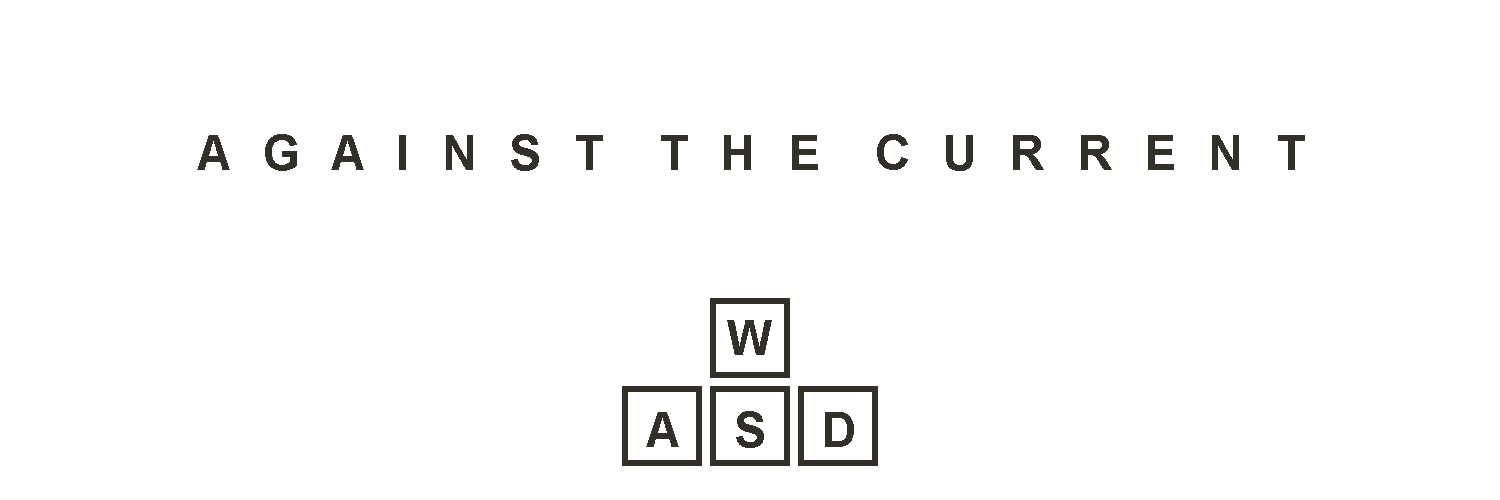
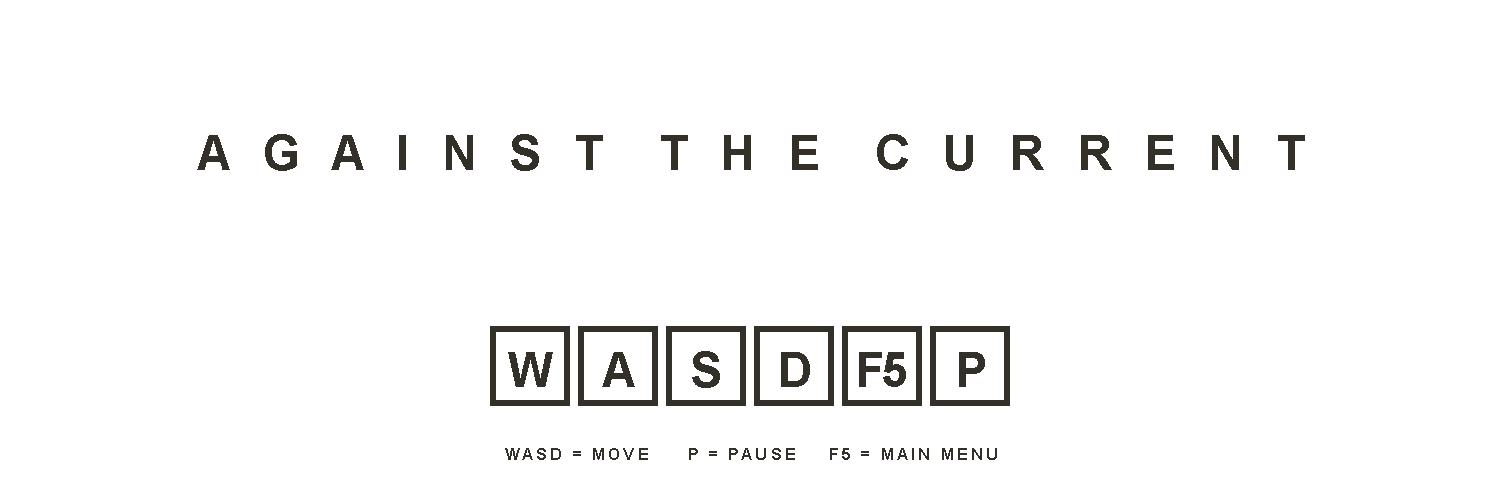
update

Changed region(s): [[0.3067, 0.57, 0.6747, 0.93]]

diff --git a/sketch.js b/sketch.js
@@ -13,7 +13,7 @@ let description = [
   }
 ];
 let gameState, startButton, gameReset, moveControls;
-let backgroundImage, gameScreenBackground, clouds_overlay;
+let backgroundImage, gameScreenBackground, clouds_overlay, pause;
 let gameScreen_x = 0, gameScreen_x2, scrollSpeed = 0.5, clouds_overlay_x = -1500;
 let playerSprite, playerX = 100, playerY = 250, playerSpeed = 1;//0.5 original speed
 let peopleSprite, peopleSprite2, peopleSprite3;
@@ -21,7 +21,7 @@ let peopleSprite2Gif;
 let peopleX = 0, peopleY = 0, peopleXX = 0, peopleYY = 0, people = [], peopleTwo = [];
 let hit = false;
 let counter = 0;
-let score = 0;
+let score = 0, score2 = 0;
 let sky_0, sky_0_speed = 0.1, sky_0_x = 0, sky_0_x2;
 let sky_1, sky_1_speed = 0.2, sky_1_x = 0, sky_1_x2;
 let sky_2, sky_2_speed = 0.3, sky_2_x = 0, sky_2_x2;
@@ -35,6 +35,7 @@ function preload() {//createImg is for gif
   //background
   backgroundImage = loadImage('images/gameArt_background.png');
   gameScreenBackground = loadImage('images/gameScreen_background.png');
+  pause = loadImage('images/pause.png');
   clouds_overlay = loadImage('images/clouds_overlay.png');
   sky_0 = loadImage('images/sky_0.png');
   sky_1 = loadImage('images/sky_1.png');
@@ -52,10 +53,10 @@ function preload() {//createImg is for gif
 //-------------------------------------------------------------------------
 function setup() {
   createCanvas(1500, 500); background(50); titleScreen();
-  for (let i = 0; i < 80; i++) {//80 = hard
+  for (let i = 0; i < 60; i++) {//80 = hard
     people.push(new peopleSpriteClass());
   }
-  for (let i = 0; i < 200; i++) {//200 = hard
+  for (let i = 0; i < 150; i++) {//200 = hard
     peopleTwo.push(new peopleSpriteClassTwo());
   }
   playerSprite.hide();
@@ -83,12 +84,12 @@ function titleScreen() {
   startButton = createButton('Press "Enter" to Play');
   startButton.size(200);
   startButton.style('width:800px');
-  startButton.position(width/4, height/2.2);
+  startButton.position(width/4, height*0.56);
   startButton.mousePressed(gameScreen);
-  gameReset = createButton('Press "F5" for Main Menu');
-  gameReset.size(200);
-  gameReset.style('width:800px');
-  gameReset.position(width/4, height*0.55);
+  // gameReset = createButton('Press "F5" for Main Menu');
+  // gameReset.size(200);
+  // gameReset.style('width:800px');
+  // gameReset.position(width/4, height*0.55);
   // moveControls = createButton('"WASD" to Move');
   // moveControls.size(200);
   // moveControls.position(width/2-80, height*0.99);
@@ -98,7 +99,8 @@ function titleScreen() {
 function gameScreen() {
   gameState = 1;
   //hide buttons
-  startButton.hide(); gameReset.hide();
+  startButton.hide();
+  // gameReset.hide();
   // moveControls.hide();
   //display image of player sprite
   fill(0, 0);
@@ -113,7 +115,7 @@ function gameScreen() {
   if (keyIsDown(80)) {//p, pauseScreen
     gameState = 2;
     startButton.show();
-    gameReset.show();
+    // gameReset.show();
   }
   //display image of people sprite
   for (let i = 0; i < people.length; i++) {
@@ -127,8 +129,9 @@ function gameScreen() {
   //score/nervousness
   fill(255); noStroke(); textSize(24); textAlign(RIGHT);
   text(score + playerX - 100 + ' nervousness', 1480, 25);
+  score2 = score + playerX - 100
   counter++;
-  if (counter === 60) {score += 7; counter = 0;}
+  if (counter === 60) {score += 10; counter = 0;}
   //collisions
   if(playerX <= 1) {playerX = 2;}
   else if (playerX >= 1490) {playerX--; end();}
@@ -148,6 +151,15 @@ function gameScreen() {
   text('A person with social anxiety may practice engaging in social interactions to decrease their feelings of nervousness. Avoiding social interactions increases nervousness. The current is endless. Define your own goal.', description_x, 90);
   description_x -= 0.5;
   if (description_x < -8000) {description_x = 3000;}
+  //player's speed doubles if nervousness is below -100
+  textSize(24);
+  if (score2 < -100) {
+    text('Social interactions are now easier', 15, 25);
+    playerSpeed = 2;
+  } else {
+    playerSpeed = 1;
+  }
+  //endgame
 }
 //-------------------------------------------------------------------------
 //-------------------------------------------------------------------------
@@ -203,10 +215,12 @@ function end() {
 //-------------------------------------------------------------------------
 //-------------------------------------------------------------------------
 function pauseScreen() {
+  image(pause, 0, 0);
   gameState = 2;
-  fill('#33302a'); textSize(42);
-  text('P A U S E', width/2 - 100, height/2 - 75);
-  startButton.show(); gameReset.show();
+  // fill('#33302a'); textSize(42);
+  // text('P A U S E', width/2 - 100, height/2 - 75);
+  startButton.show();
+  // gameReset.show();
   playerSprite.hide();
   // moveControls.show();
   //pause gameScreen
